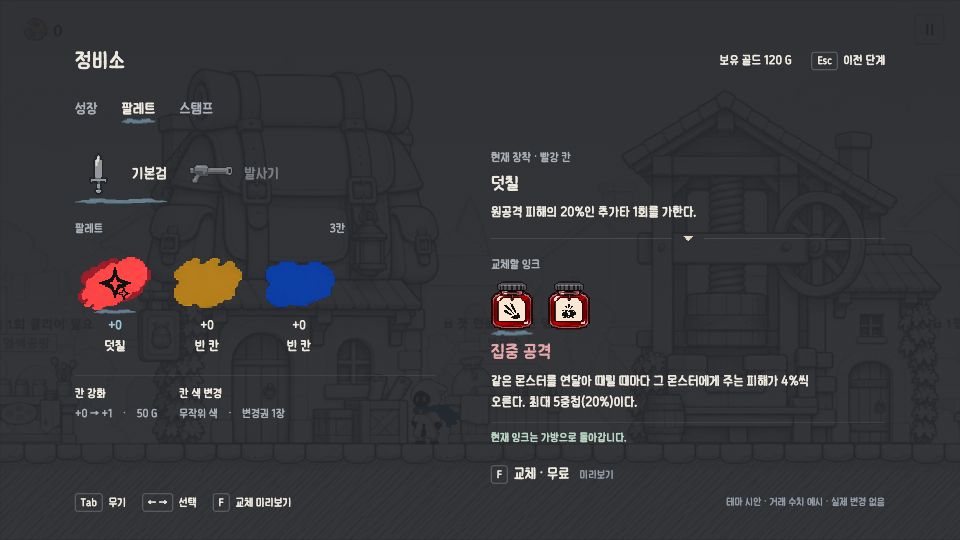
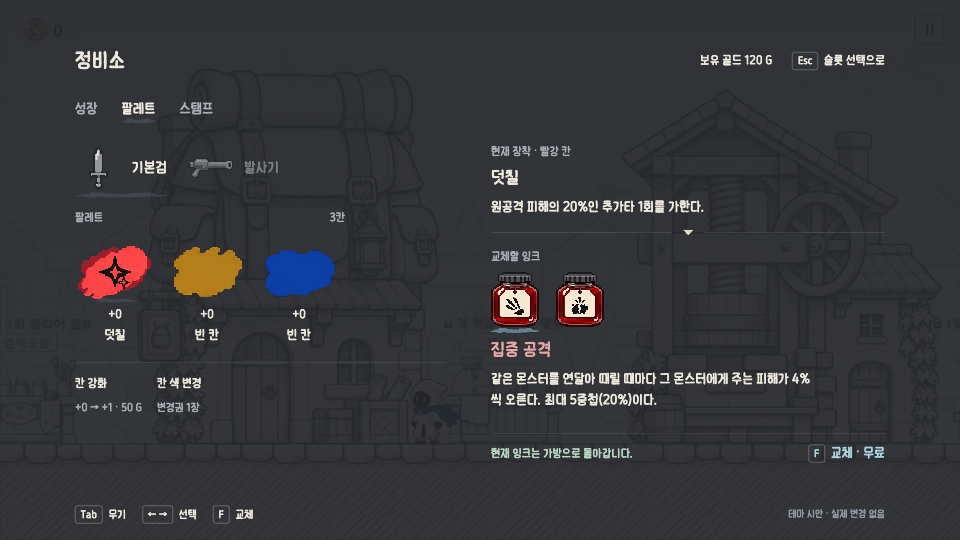
Refine palette selection hierarchy and comparison layout

diff --git a/ui/work/theme/ink-pixel-v1/maintenance-palette-v1/index.html b/ui/work/theme/ink-pixel-v1/maintenance-palette-v1/index.html
@@ -1,10 +1,28 @@
 <!doctype html><html lang="ko"><meta charset="utf-8"><title>Deviant 정비소 · 팔레트</title><style>
 @font-face{font-family:Kkuk;src:url(../assembly-v1/fonts/MemomentKkukkukk.ttf)}*{box-sizing:border-box}body{margin:0;background:#24262b;color:#eee9df;font-family:Kkuk,sans-serif}button,a{font:inherit;color:inherit;background:none;border:0;cursor:pointer;text-decoration:none}button{padding:0;text-align:left}button:focus-visible,a:focus-visible{outline:2px solid #9ac7d7;outline-offset:7px}button:disabled{cursor:default;color:#7e858e}img{image-rendering:pixelated;object-fit:contain}.screen{position:relative;width:1920px;height:1080px;transform-origin:0 0;overflow:hidden}.world{position:absolute;inset:0;background:linear-gradient(#24262bf0,#24262bea),url(../screen-set-v6/assets/village.jpg) center/cover;filter:blur(1px)}main{position:relative;margin:0 150px;padding-top:85px}header{display:flex;align-items:center;height:72px}h1{font-size:43px;font-weight:normal;margin:0}header aside{margin-left:auto;font-size:25px;display:flex;gap:40px}kbd{font:inherit;font-size:22px;border:1px solid #999da3;border-radius:5px;padding:4px 10px;margin-right:12px}nav{display:flex;gap:48px;align-items:center;margin-top:44px;font-size:29px;color:#a8afb6}nav .active{color:#eee9df}.mark{position:relative}.mark:after{content:'';position:absolute;left:0;right:0;bottom:-12px;height:10px;background:url(../screen-set-v6/assets/selection-swash.png) center/100% 100% no-repeat}.cols{display:grid;grid-template-columns:720px 1fr;gap:112px;margin-top:64px}.weapons{display:flex;gap:40px;align-items:center}.weapons button{display:flex;gap:18px;align-items:center;font-size:30px}.weapons img{width:96px;height:96px}.weapons .muted{opacity:.6}.label{font-size:24px;color:#a8afb6;margin:0 0 18px}.muted{color:#a8afb6}.paletteHead{margin-top:48px;display:flex;justify-content:space-between;max-width:540px}.slots{display:flex;gap:24px;margin-top:22px}.slot{width:160px;text-align:center}.layers{width:160px;height:114px;position:relative}.layers img{position:absolute;inset:0;width:160px;height:114px}.slot .level{display:block;font-size:25px;margin-top:12px}.slot .name{display:block;font-size:27px;margin-top:12px}.slot.chosen .level{color:#9ac7d7}.slot.chosen .layers:after{content:'';position:absolute;bottom:-3px;left:38px;right:38px;height:8px;background:url(../screen-set-v6/assets/selection-swash.png) center/100% 100% no-repeat}.services{border-top:1px solid #a8afb640;margin-top:42px;padding-top:22px;display:flex;gap:44px}.services p{font-size:24px;margin:0 0 12px}.services small{display:block;font-size:23px;color:#a8afb6}.services .muted{font-size:21px}h2{font-size:36px;font-weight:normal;margin:0 0 16px}p.effect{font-size:27px;line-height:1.55;margin:0;max-width:650px}.current{min-height:140px}.transition{display:flex;align-items:center;gap:20px;margin:20px 0 28px}.transition:before,.transition:after{content:'';height:1px;background:#a8afb660;flex:1}.transition img{width:24px;height:22px}.candidateRow{display:flex;gap:30px;margin:20px 0 24px;min-height:96px;align-items:center}.candidateRow button{width:84px;height:96px;position:relative}.candidateRow img{width:84px;height:96px}.candidateRow .mark:after{bottom:-12px}.candidateTitle{color:#e5a6a7}.action{font-size:29px;padding:12px 0;display:inline-block;margin-top:28px}.feedback{border-top:1px solid #a8afb640;margin-top:20px;padding-top:16px;font-size:23px;color:#b9d6c4}.hint{font-size:23px;color:#a8afb6;margin-top:24px;line-height:1.5}.foot{position:absolute;left:150px;right:150px;bottom:62px;display:flex;gap:32px;font-size:23px}.foot .note{margin-left:auto;color:#919aa5;font-size:21px}.slotDetail{padding-top:10px}.emptyNote{font-size:26px;color:#a8afb6;margin:22px 0}.pending{font-size:22px;color:#919aa5;margin-top:24px}.choiceLink{color:#9ac7d7;font-size:27px;margin-top:36px}.destination{font-size:23px;color:#a8afb6;margin-top:18px}
-</style><div class="screen"><div class="world"></div><main><header><h1>정비소</h1><aside><span>보유 골드 120 G</span><span><kbd>Esc</kbd>이전 단계</span></aside></header><nav><a href="../maintenance-set-v1/index.html?view=growth">성장</a><span class="active mark">팔레트</span><span>스탬프</span></nav><div class="cols"><section><div class="weapons" id="weapons"></div><div class="paletteHead"><span class="label">팔레트</span><span class="label">3칸</span></div><div class="slots" id="slots"></div><div class="services"><div><p>칸 강화</p><small>+0 → +1　·　50 G</small></div><div><p>칸 색 변경</p><small>무작위 색　·　변경권 1장</small></div></div></section><section id="detail"></section></div></main><footer class="foot"><span><kbd>Tab</kbd>무기</span><span><kbd>← →</kbd>선택</span><span><kbd>F</kbd><span id="fLabel">잉크 고르기</span></span><span class="note">테마 시안 · 거래 수치 예시 · 실제 변경 없음</span></footer></div><script>
-const A='../screen-set-v6/assets/';const inks=[{id:'ink3_red_01',name:'덧칠',color:'red',desc:'원공격 피해의 20%인 추가타 1회를 가한다.'},{id:'ink3_red_02',name:'집중 공격',color:'red',desc:'같은 몬스터를 연달아 때릴 때마다 그 몬스터에게 주는 피해가 4%씩 오른다. 최대 5중첩(20%)이다.'},{id:'ink3_red_04',name:'터지는 잉크',color:'red',desc:'표식을 터트린 몬스터에게 기준 피해 60%인 추가타 1회를 가한다.'},{id:'ink3_yellow_02',name:'뛰어난 발걸음',color:'yellow',desc:'공격 속도와 이동 속도가 각각 10% 증가한다.'},{id:'ink3_blue_01',name:'범위 증폭',color:'blue',desc:'공격 범위(반경)가 20% 증가한다.'}];const colorNames={red:'빨강',yellow:'노랑',blue:'파랑'};const colors=['red','yellow','blue'];const sets=[[0,null,null],[null,null,4]];let mode=new URLSearchParams(location.search).get('state')==='ink'?'ink':'slot',slot=mode==='ink'?0:1,weapon=0,candidate=1;
+
+/* Layout review: keep the composition centered and emphasize the active layer. */
+nav .mark:after{opacity:.3}.weapons .mark:after{opacity:.25}
+.cols{gap:88px;grid-template-columns:744px 1fr;margin-top:52px}
+.paletteHead{margin-top:38px}.services{margin-top:38px}
+#detail{position:relative;height:650px}
+.current{height:156px;min-height:0}.transition{margin:10px 0 24px}
+.candidateRow{height:110px;min-height:110px;gap:34px;margin:16px 0 24px}
+.candidateRow button,.candidateRow img{width:96px;height:110px}
+p.effect{font-size:28px;line-height:1.5}
+.feedback{position:absolute;bottom:0;left:0;right:0;height:70px;padding-top:22px;padding-right:245px;font-size:24px;line-height:1.4}
+.action{position:absolute;right:0;bottom:4px;margin:0;color:#acd5df;font-size:28px}
+.choiceLink{position:absolute;left:0;bottom:12px;margin:0}
+.pending{display:none}.foot{bottom:38px}
+body[data-mode="ink"] .slot.chosen .layers:after{opacity:.25}
+body[data-mode="ink"] .slot.chosen .level{color:#eee9df}
+.services{gap:30px}.services p{font-size:25px}.services small{font-size:23px}
+.services button{font-size:25px;line-height:1.7}.services button:hover{color:#acd5df}.services small{margin-top:6px}.serviceInfo{font-size:28px;line-height:1.6;margin-top:36px}.expanded .slots{gap:10px}.expanded .slot{width:138px}.expanded .layers,.expanded .layers img{width:138px;height:108px}.expanded .slot .name{font-size:25px}.expanded .paletteHead{max-width:730px}.slotDetail{padding-top:0}p.effect{word-break:keep-all;overflow-wrap:break-word}</style><div class="screen"><div class="world"></div><main><header><h1>정비소</h1><aside><span>보유 골드 120 G</span><span><kbd>Esc</kbd><span id="escLabel">닫기</span></span></aside></header><nav><a href="../maintenance-set-v1/index.html?view=growth">성장</a><span class="active mark">팔레트</span><span>스탬프</span></nav><div class="cols"><section><div class="weapons" id="weapons"></div><div class="paletteHead"><span class="label">팔레트</span><span class="label" id="slotCount">3칸</span></div><div class="slots" id="slots"></div><div class="services"><button onclick="showService(0)">칸 강화 <small>+0 → +1 · 50 G</small></button><button onclick="showService(1)">칸 색 변경 <small>변경권 1장</small></button></div></section><section id="detail"></section></div></main><footer class="foot"><span><kbd>Tab</kbd>무기</span><span><kbd>← →</kbd>선택</span><span><kbd>F</kbd><span id="fLabel">잉크 고르기</span></span><span class="note">테마 시안 · 실제 변경 없음</span></footer></div><script>
+const A='../screen-set-v6/assets/';const inks=[{id:'ink3_red_01',name:'덧칠',color:'red',desc:'원공격 피해의 20%인 추가타 1회를 가한다.'},{id:'ink3_red_02',name:'집중 공격',color:'red',desc:'같은 몬스터를 연달아 때릴 때마다 그 몬스터에게 주는 피해가 4%씩 오른다. 최대 5중첩(20%)이다.'},{id:'ink3_red_04',name:'터지는 잉크',color:'red',desc:'표식을 터트린 몬스터에게 기준 피해 60%인 추가타 1회를 가한다.'},{id:'ink3_yellow_02',name:'뛰어난 발걸음',color:'yellow',desc:'공격 속도와 이동 속도가 각각 10% 증가한다.'},{id:'ink3_blue_01',name:'범위 증폭',color:'blue',desc:'공격 범위(반경)가 20% 증가한다.'}];const colorNames={red:'빨강',yellow:'노랑',blue:'파랑',green:'초록',purple:'보라'};const expanded=new URLSearchParams(location.search).get('slots')==='5';const colors=expanded?['red','yellow','blue','green','purple']:['red','yellow','blue'];const sets=expanded?[[0,null,null,null,null],[null,null,4,null,null]]:[[0,null,null],[null,null,4]];let mode=new URLSearchParams(location.search).get('state')==='ink'?'ink':'slot',slot=mode==='ink'?0:1,weapon=0,candidate=1;
 function available(){return inks.map((d,i)=>({...d,index:i})).filter(d=>d.color===colors[slot]&&d.index!==sets[weapon][slot])}
 function setSlot(i){slot=i;mode='slot';render()}function setWeapon(i){weapon=i;mode='slot';render()}function chooseInk(){if(!available().length)return;candidate=available()[0].index;mode='ink';render()}
-function render(){document.getElementById('weapons').innerHTML=['기본검','발사기'].map((n,i)=>`<button class="${weapon===i?'mark':'muted'}" onclick="setWeapon(${i})"><img src="${A}weapon-${i?'launcher':'base_sword'}.png" alt="">${n}</button>`).join('');document.getElementById('slots').innerHTML=colors.map((c,i)=>{let d=inks[sets[weapon][i]];return `<button class="slot ${slot===i?'chosen':''}" onclick="setSlot(${i})" aria-label="${colorNames[c]} 칸 ${d?d.name:'빈 칸'}"><div class="layers"><img src="${A}${d?'filled':'empty'}-${c}.png" alt="">${d?`<img src="${A}${d.id}.png" alt="">`:''}</div><span class="level">+0</span><span class="name">${d?d.name:'빈 칸'}</span></button>`}).join('');let current=inks[sets[weapon][slot]],d=inks[candidate],list=available();document.getElementById('fLabel').textContent=mode==='slot'?'잉크 고르기':'교체 미리보기';document.getElementById('detail').innerHTML=mode==='slot'?`<div class="slotDetail"><p class="label">선택한 칸 · ${colorNames[colors[slot]]}</p><h2>${current?current.name:'빈 칸'}</h2>${current?`<p class="effect">${current.desc}</p>`:'<p class="emptyNote">장착된 잉크 없음</p>'}<div class="transition"><img src="${A}transition-down.png" alt=""></div><p class="label">보유한 ${colorNames[colors[slot]]} 잉크</p><div class="candidateRow">${list.map(x=>`<button onclick="candidate=${x.index};mode='ink';render()" aria-label="${x.name}"><img src="${A}${x.id}-jar.png" alt="${x.name}"></button>`).join('')||'<p class="emptyNote">보유한 잉크 없음</p>'}</div><button class="choiceLink" onclick="chooseInk()" ${list.length?'':'disabled'}><kbd>F</kbd>잉크 고르기</button></div>`:`<div class="current"><p class="label">현재 장착 · ${colorNames[colors[slot]]} 칸</p><h2>${current?current.name:'빈 칸'}</h2><p class="effect">${current?current.desc:'장착된 잉크 없음'}</p></div><div class="transition"><img src="${A}transition-down.png" alt="교체 방향"></div><p class="label">${current?'교체할':'장착할'} 잉크</p><div class="candidateRow">${list.map(x=>`<button class="${x.index===candidate?'mark':''}" onclick="candidate=${x.index};render()" aria-label="${x.name}"><img src="${A}${x.id}-jar.png" alt="${x.name}"></button>`).join('')}</div><h2 class="candidateTitle">${d.name}</h2><p class="effect">${d.desc}</p><div class="feedback">${current?'현재 잉크는 가방으로 돌아갑니다.':'선택한 빈 칸에 장착합니다.'}</div><button class="action" onclick="preview()"><kbd>F</kbd>${current?'교체':'장착'} · 무료</button><span class="pending">　미리보기</span>`}
+function render(){document.body.classList.toggle("expanded",expanded);document.getElementById("slotCount").textContent=colors.length+"칸";document.body.dataset.mode=mode;document.getElementById("escLabel").textContent=mode==="ink"?"슬롯 선택으로":"닫기";document.getElementById('weapons').innerHTML=['기본검','발사기'].map((n,i)=>`<button class="${weapon===i?'mark':'muted'}" onclick="setWeapon(${i})"><img src="${A}weapon-${i?'launcher':'base_sword'}.png" alt="">${n}</button>`).join('');document.getElementById('slots').innerHTML=colors.map((c,i)=>{let d=inks[sets[weapon][i]];return `<button class="slot ${slot===i?'chosen':''}" onclick="setSlot(${i})" aria-label="${colorNames[c]} 칸 ${d?d.name:'빈 칸'}"><div class="layers"><img src="${A}${d?'filled':'empty'}-${c}.png" alt="">${d?`<img src="${A}${d.id}.png" alt="">`:''}</div><span class="level">+0</span><span class="name">${d?d.name:'빈 칸'}</span></button>`}).join('');let current=inks[sets[weapon][slot]],d=inks[candidate],list=available();document.getElementById('fLabel').textContent=mode==='slot'?'잉크 고르기':(current?'교체':'장착');document.getElementById('detail').innerHTML=mode==='slot'?`<div class="slotDetail"><div class="current"><p class="label">선택한 칸 · ${colorNames[colors[slot]]}</p><h2>${current?current.name:'빈 칸'}</h2>${current?`<p class="effect">${current.desc}</p>`:''}</div><div class="transition"><img src="${A}transition-down.png" alt=""></div><p class="label">보유한 ${colorNames[colors[slot]]} 잉크</p><div class="candidateRow">${list.map(x=>`<button onclick="candidate=${x.index};mode='ink';render()" aria-label="${x.name}"><img src="${A}${x.id}-jar.png" alt="${x.name}"></button>`).join('')||'<p class="emptyNote">보유한 잉크 없음</p>'}</div><button class="choiceLink" onclick="chooseInk()" ${list.length?'':'disabled'}><kbd>F</kbd>잉크 고르기</button></div>`:`<div class="current"><p class="label">현재 장착 · ${colorNames[colors[slot]]} 칸</p><h2>${current?current.name:'빈 칸'}</h2><p class="effect">${current?current.desc:'장착된 잉크 없음'}</p></div><div class="transition"><img src="${A}transition-down.png" alt="교체 방향"></div><p class="label">${current?'교체할':'장착할'} 잉크</p><div class="candidateRow">${list.map(x=>`<button class="${x.index===candidate?'mark':''}" onclick="candidate=${x.index};render()" aria-label="${x.name}"><img src="${A}${x.id}-jar.png" alt="${x.name}"></button>`).join('')}</div><h2 class="candidateTitle" style="color:${({red:"#e5a6a7",yellow:"#e2ce91",blue:"#9dc6e4"})[d.color]}">${d.name}</h2><p class="effect">${d.desc}</p><div class="feedback">${current?'현재 잉크는 가방으로 돌아갑니다.':'선택한 빈 칸에 장착합니다.'}</div><button class="action" onclick="preview()"><kbd>F</kbd>${current?'교체':'장착'} · 무료</button><span class="pending">　미리보기</span>`}
+function showService(i){mode='service';document.body.dataset.mode=mode;document.getElementById('escLabel').textContent='슬롯 선택으로';document.getElementById('fLabel').textContent='—';document.getElementById('detail').innerHTML='<p class="label">선택한 '+colorNames[colors[slot]]+' 칸</p><h2>'+(i?'칸 색 변경':'칸 강화')+'</h2><p class="serviceInfo">'+(i?'무작위 색으로 변경<br>필요 변경권 1장':'+0 → +1<br>필요 골드 50 G')+'</p><p class="hint">거래 상세는 다음 시안에서 확인합니다.</p>';}
 function preview(){document.querySelector('.feedback').textContent='시안 확인 완료 · 실제 아이템은 변경하지 않았습니다.'}
-document.addEventListener('keydown',e=>{if(e.repeat)return;if(e.key==='Tab'){e.preventDefault();setWeapon(1-weapon)}if(e.key==='Escape'){e.preventDefault();mode='slot';render()}if(e.key.toLowerCase()==='f'){e.preventDefault();mode==='slot'?chooseInk():preview()}if(['ArrowLeft','ArrowRight'].includes(e.key)){e.preventDefault();let delta=e.key==='ArrowLeft'?-1:1;if(mode==='slot')slot=(slot+delta+3)%3;else{let a=available(),i=a.findIndex(x=>x.index===candidate);candidate=a[(i+delta+a.length)%a.length].index}render()}});function fit(){document.querySelector('.screen').style.transform=`scale(${Math.min(innerWidth/1920,innerHeight/1080)})`}onresize=fit;fit();render();
+document.addEventListener('keydown',e=>{if(e.repeat)return;if(e.key==='Tab'){e.preventDefault();setWeapon(1-weapon)}if(e.key==='Escape'){e.preventDefault();if(mode!=='slot'){mode='slot';render()}else{document.querySelector('main').hidden=true;document.querySelector('.foot').innerHTML='<button onclick="location.reload()">시안 다시 열기</button>'}}if(e.key.toLowerCase()==='f'){e.preventDefault();mode==='slot'?chooseInk():mode==='ink'?preview():null}if(['ArrowLeft','ArrowRight'].includes(e.key)){e.preventDefault();let delta=e.key==='ArrowLeft'?-1:1;if(mode==='slot')slot=(slot+delta+colors.length)%colors.length;else if(mode==='ink'){let a=available(),i=a.findIndex(x=>x.index===candidate);candidate=a[(i+delta+a.length)%a.length].index}render()}});function fit(){document.querySelector('.screen').style.transform=`scale(${Math.min(innerWidth/1920,innerHeight/1080)})`}onresize=fit;fit();render();
 </script></html>

diff --git a/ui/work/theme/ink-pixel-v1/maintenance-palette-v1/README.md b/ui/work/theme/ink-pixel-v1/maintenance-palette-v1/README.md
@@ -5,3 +5,12 @@
 Figma 128:128,128:224의 정보 역할을 승인된 어두운 픽셀 테마로 재구성. 기존 PNG는 screen-set-v6/assets를 직접 참조하며 별도 재생성하지 않았다. 3칸 기본 상태, +0 효과 예시. 강화50G/변경권1은 와이어 예시. 강화·색 변경·판매·파괴 거래는 다음 범위이며 이번에는 미구현. 버튼 F는 미리보기 안내만 변경하고 실제 아이템/재화는 바꾸지 않는다. 무기별 독립 장착 상태, 칸/후보 클릭, 방향키, Tab 무기 전환, Esc 칸 선택 복귀. Unity 미적용.
 
 참고 와이어는 회색 오른쪽 창이지만 사용자 테마 지시에 따라 전체화면 열린 배치로 변경했다. 가방 용량은 표시하지 않아 충돌하는 규칙을 확정하지 않는다. 스탬프는 라벨만이며 기능 연결 전. 실제 에셋 원본 해시는 asset-sources.json 참조.
+
+## 2026-11-09 레이아웃 검토 반영
+- 좌우 구성 유지. 탭·무기 선택선은 약하게, 현재 조작 단계의 선택선을 선명하게 표시.
+- 현재 효과 영역 높이를 고정하고 오른쪽 하단에 안내와 실행 버튼을 분리 배치.
+- 병 아이콘 84×96 → 96×110, 효과 설명 27 → 28px. 빈 상태 중복 문구 제거.
+- 강화/색 변경은 클릭하여 비용 예시를 확인 가능. 거래는 미구현이며 상세 준비 안내만 표시.
+- Esc: 잉크/거래 안내에서는 슬롯 선택으로, 슬롯 선택에서는 시안 닫기.
+- ?state=ink&slots=5 로 5칸 확장 확인. 실제 아이템·재화 변경 없음.
+- 원본/960×540/5칸 렌더 확인. 키보드 전 과정 자동화 검증은 수행하지 않음.
